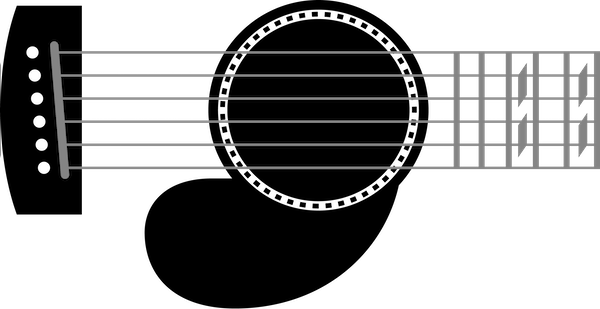
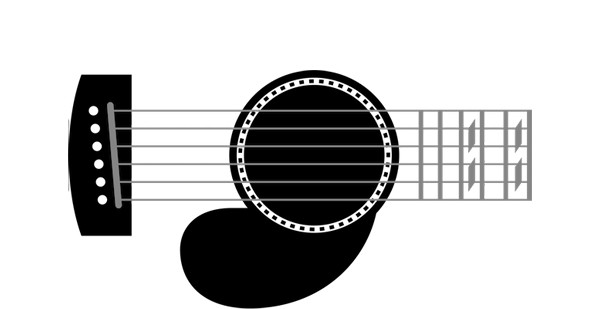
fixed image for classical guitar scaling

diff --git a/script.js b/script.js
@@ -11,6 +11,7 @@ const modal = document.getElementById('modal');
 const modalBox = document.getElementById('display-text');
 const darkBtn = document.getElementById('toggle-theme');
 const bodyBg = document.querySelector('body');
+const mainCont = document.getElementById('main-container');
 
 const guitarNotesLayout = [
     ['E4', 'F4', 'Gb4', 'G4', 'Ab4', 'A4', 'Bb4', 'B4', 'C5', 'Db5', 'D5', 'Eb5', 'E5'],
@@ -172,10 +173,18 @@ darkBtn.addEventListener('click', (evt) => {
         bodyBg.style.backgroundImage = `url('images/background-dark.jpg')`;
         darkMode = true;
         darkBtn.classList.add('clicked');
+        mainCont.style.background = 'gray';
+        document.getElementById('display-content').style.background = 'gray';
+        document.getElementById('open-fret').style.background = 'gray';
+        mainCont.style.boxShadow = 'rgba(255, 255, 255, 0.376) 0px 48px 100px 0px';
     } else {
         bodyBg.style.backgroundImage = `url('images/background-light.jpg')`;
         darkMode = false;
         darkBtn.classList.remove('clicked');
+        mainCont.style.background = 'white';
+        document.getElementById('display-content').style.background = 'white';
+        document.getElementById('open-fret').style.background = 'white';
+        mainCont.style.boxShadow = 'rgba(17, 12, 46, 0.358) 0px 48px 100px 0px';
     }
 });
 
@@ -204,7 +213,7 @@ document.getElementById('classical').addEventListener('click', (evt) => {
             btn.classList.remove('clicked');
         }
     });
-    compChoiceBtn.style.top = '11%';
+    compChoiceBtn.style.top = '17%';
 });
 
 document.getElementById('muted').addEventListener('click', (evt) => {

diff --git a/style.css b/style.css
@@ -3,7 +3,7 @@
 @import url('https://fonts.googleapis.com/css2?family=Great+Vibes&display=swap');
 
 :root {
-    --main-box-light: rgba(17, 12, 46, 0.15);
+    --main-box-light: rgba(17, 12, 46, 0.358);
     --main-box-dark: rgba(255, 255, 255, 0.376);
 }
 
@@ -76,7 +76,7 @@ body {
     align-items: center;
     height: 50vh;
     border-radius: 10px;
-    box-shadow: var(--main-box-light) 0px 25px 20px -20px;
+    box-shadow: rgba(17, 12, 46, 0.358) 0px 25px 20px -20px;
 }
 
 #display-content > img {
